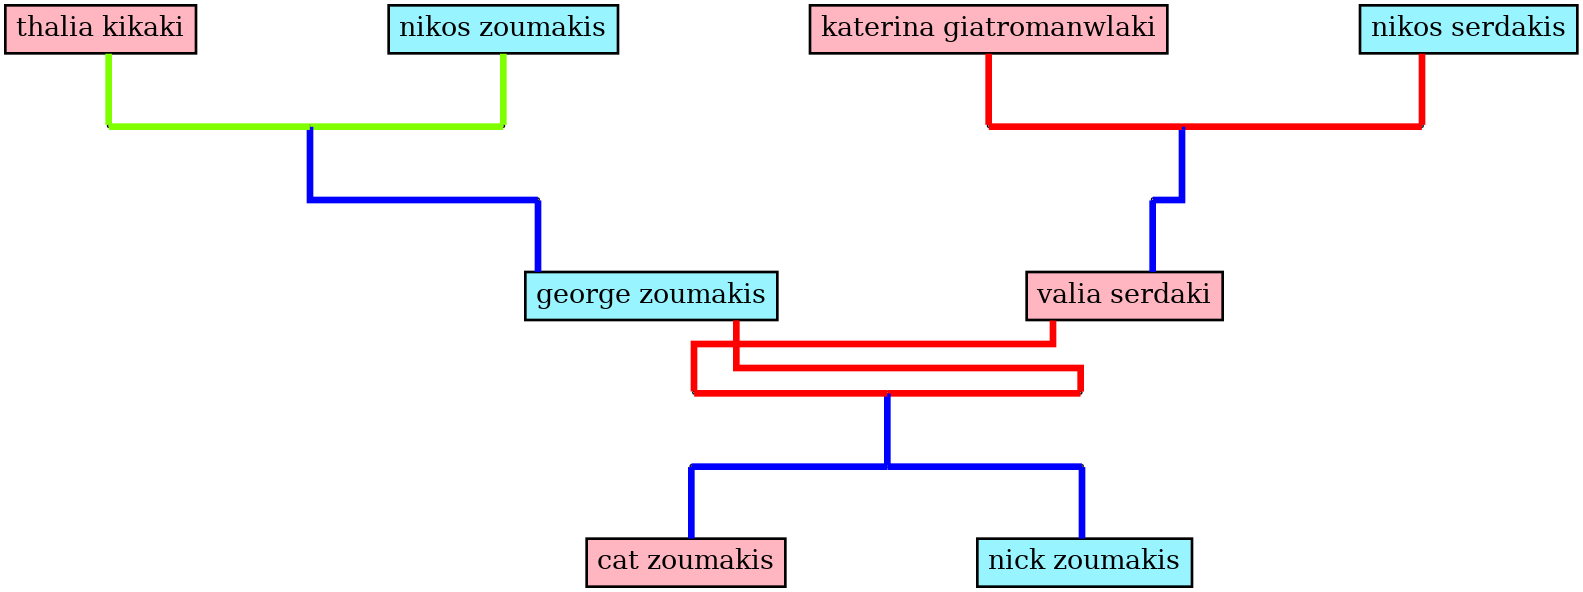
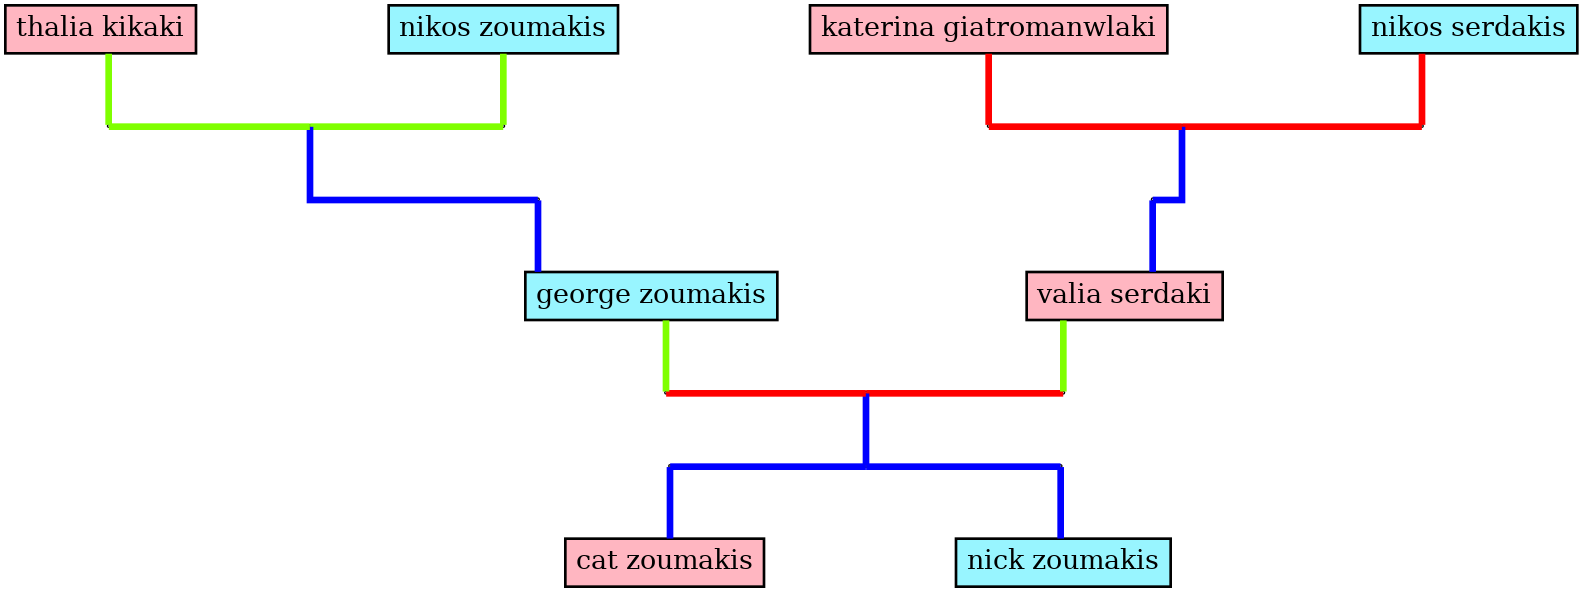
layout improvements

diff --git a/tree_graph/PygraphvizTree.py b/tree_graph/PygraphvizTree.py
@@ -71,8 +71,7 @@ class Graph:
         print("====END====")"""
                 
         # ταξινόμηση ανα γενιά
-        self.sorted_all = sorted(self.all_people, key=lambda person:person.gender, reverse=True)
-
+        self.sorted_all = self.all_people
 
     """Φορτώνει το αρχείο json ή το dict με τις πληροφορίες συγγένειας από το χρήστη, φτιάχνει τα Person objects και επιστρέφει τη λίστα για τη σχεδίαση"""
     def load_data(self, family_data):
@@ -285,21 +284,7 @@ class Graph:
                         graph.add_edges_from([(link_left, point), (point, link_right)], color=marriage_colors[0] if is_red else marriage_colors[1])
                         graph.add_subgraph([link_left, point, link_right], rank="same")
                         # σύνδεση link left & link right με κάθε σύζυγο
-                        graph.add_edges_from([(spouse_id, link_right), (id, link_left)], color=marriage_colors[0] if is_red else marriage_colors[1])
-                        graph.layout(prog="dot")
-                        #TODO: close but not there yet, also check relative position of id and spouse_id nodes!
-                        dist_id_link_left = abs(float(graph.get_node(id).attr['pos'].split(',')[0]) - float(graph.get_node(link_left).attr['pos'].split(',')[0]))
-                        dist_id_link_right = abs( float(graph.get_node(id).attr['pos'].split(',')[0]) - float(graph.get_node(link_right).attr['pos'].split(',')[0]))
-                        dist_spouseid_link_left =  abs(float(graph.get_node(spouse_id).attr['pos'].split(',')[0]) - float(graph.get_node(link_left).attr['pos'].split(',')[0]))
-                        dist_spouseid_link_right = abs(float(graph.get_node(spouse_id).attr['pos'].split(',')[0]) - float(graph.get_node(link_right).attr['pos'].split(',')[0]))
-                        if person.gender == "female":
-                            if  dist_id_link_left < dist_id_link_right:
-                                graph.add_edges_from([(spouse_id, link_left), (id, link_right)], color=marriage_colors[0] if is_red else marriage_colors[1])
-                                graph.remove_edges_from([(spouse_id, link_right), (id, link_left)])
-                        else:
-                            if  dist_spouseid_link_left > dist_spouseid_link_right:
-                                graph.add_edges_from([(spouse_id, link_left), (id, link_right)], color=marriage_colors[0] if is_red else marriage_colors[1])
-                                graph.remove_edges_from([(spouse_id, link_right), (id, link_left)])
+                        graph.add_edges_from([(id, link_left),(spouse_id, link_right)],  color=marriage_colors[0] if is_red else marriage_colors[1])         
                         # προσθήκη στη λίστα εξαιρέσεων
                         completed_spouse_links.append(person)
                         # αύξηση μετρητή σημείων ένωσης
@@ -357,10 +342,41 @@ class Graph:
                             # εξαίρεση αδερφιών από μελλοντικές συνδέσεις
                             for sibling in person.siblings:
                                 completed_sibling_links.append(sibling)
-
+                        #graph.layout(prog="dot")
+                        #graph.draw(filepath)
+                        
+            graph.layout(prog="dot")
+            graph.draw(filepath)
             # προχωράμε στην επόμενη γενιά
             current_gen += 1
 
+        # edge cross check
+        # edge crossing check
+        for person in people:
+        # get current node and spouse if it exists only if spouse exists, otherwise no edge crossings
+            if person.spouse and not person.siblings:
+                current = graph.get_node(person.id)
+                current_spouse = graph.get_node(person.spouse.id)
+                # find link edges for current and spouse
+                for node in (current, current_spouse):
+                    for edge_tuple in graph.edges(node):
+                        for edge in edge_tuple:
+                            if 'link' in edge and node == current:
+                                current_link = edge
+                            elif 'link' in edge and node == current_spouse:
+                                current_spouse_link = edge
+                #calculate x coordinates of nodes and links
+                x_link_curr = float(graph.get_node(current_link).attr['pos'].split(',')[0])
+                x_link_curr_spouse = float(graph.get_node(current_spouse_link).attr['pos'].split(',')[0])
+                x_curr =  float(graph.get_node(current).attr['pos'].split(',')[0])
+                x_curr_spouse = float(graph.get_node(current_spouse).attr['pos'].split(',')[0])
+                # if the statement is true, the edges have crossed and need reversal
+                if  abs(x_curr - x_link_curr) > abs(x_curr - x_link_curr_spouse):
+                    # remove existing
+                    graph.remove_edges_from([(current, current_link), (current_spouse, current_spouse_link)])
+                    # add correct edges
+                    graph.add_edges_from([(current, current_spouse_link), (current_spouse, current_link)], color=marriage_colors[1] if is_red else marriage_colors[0])
+                    
         graph.layout(prog="dot")
         graph.draw(filepath)
         # με την εικόνα σχεδιασμένη, προχωράμε στην ανάκτηση των συντεταγμένων των κόμβων
